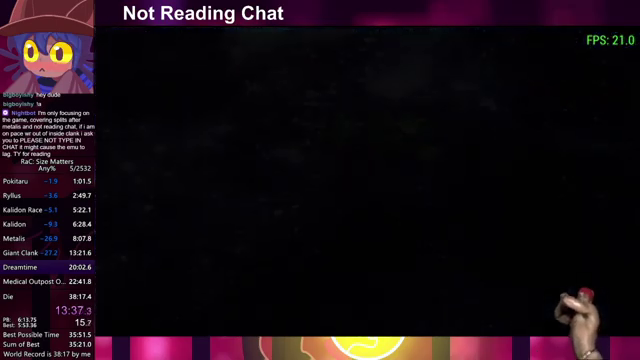
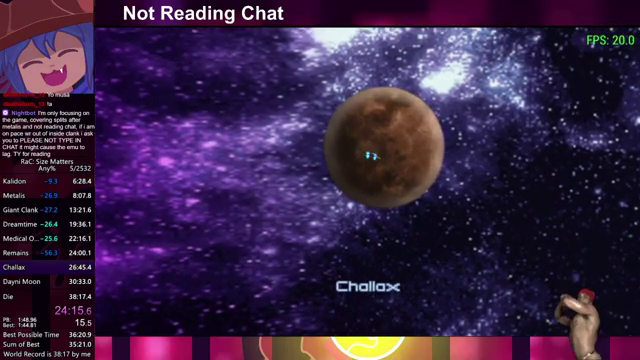
Started recording the black screens. The code currently doesn't not work as I need to fix up a bug.

diff --git a/sm-load-normalizer-by-image/image_scanning/image_scanner.py b/sm-load-normalizer-by-image/image_scanning/image_scanner.py
@@ -146,6 +146,12 @@ class ImageScanner:
         load_bound_max = load_bound[1] + 0.5
         return (load_time > load_bound_min) and (load_time < load_bound_max)
 
+    # Checks if the number of black screen frames is valid.
+    def is_black_screen_valid(self, black_time):
+        # Black screens before and after the loads are always longer than 10 frames
+        # (all measured ones have been 15 frames or more).
+        return black_time > (10.0 / 30.0)
+
     def record_load(self, load_time):
         # Check if it is the Pokitaru load (the first load), which is not counted
         # in the speed run.
@@ -160,8 +166,9 @@ class ImageScanner:
     # Functionality performed when going from a non-black frame to a black frame (entering).
     # This functionality is important for timing the loads.
     def enter_black_frame(self, debug_frame_before_black):
-        # DEBUGGING
         if self.enter_black_count == 0:
+            # Time the black screen to make sure it is valid.
+            self.record_position()
             self.enter_black_count = 1
             self.debug_frame_before_load = debug_frame_before_black
         elif self.enter_black_count == 1:
@@ -180,14 +187,24 @@ class ImageScanner:
             else:
                 # No load was added, so count this as the first enter_black_frame.
                 self.enter_black_count = 1
+                # Time the black screen to make sure it is valid.
+                self.record_position()
 
     # Functionality performed when going from a black frame to a non-black frame (exiting).
     # This functionality is important for timing the loads.
     def exit_black_frame(self):
         if self.enter_black_count == 1:
-            self.record_position()
+            black_time = self.get_time_diff()
+            if self.is_black_screen_valid(black_time):
+                # Start recording the position again, as we now need to measure a potential load.
+                self.record_position()
+            else:
+                # We know that there cannot be a load after this black screen, so restart the
+                # load measurement process.
+                self.enter_black_count = 0
 
     # The position is either a frame number for video scanning, or a time stamp for screen scanning.
+    # Also returns the position recorded.
     def record_position(self):
         raise NotImplementedError
 

diff --git a/sm-load-normalizer-by-image/image_scanning/video_scanner.py b/sm-load-normalizer-by-image/image_scanning/video_scanner.py
@@ -9,7 +9,7 @@ class VideoScanner(ImageScanner):
         self.fps = self.settings["vid"]["fps"]
         self.vid = cv2.VideoCapture(self.settings["vid"]["filename_vid"])
         self.frame_count = 1
-        self.load_start_frame = 0
+        self.start_frame = 0
 
     def get_image_res(self):
         # Detect video resolution from scanning the first frame.
@@ -27,15 +27,21 @@ class VideoScanner(ImageScanner):
         return frame[self.crop_y_start:self.crop_y_end, self.crop_x_start:self.crop_x_end]
 
     def get_time_diff(self):
-        return (self.frame_count - self.load_start_frame) / self.fps
+        return (self.frame_count - self.start_frame) / self.fps
 
     def enter_black_frame(self, debug_frame_before_black):
         # DEBUGGING
-        print("Entering black at frame", str(self.frame_count))
+        print("ENTERING black at frame", str(self.frame_count))
         super(VideoScanner, self).enter_black_frame(debug_frame_before_black)
 
+    def exit_black_frame(self,):
+        # DEBUGGING
+        print("EXITING black at frame", str(self.frame_count))
+        super(VideoScanner, self).exit_black_frame()
+
     def record_position(self):
-        self.load_start_frame = self.frame_count
+        self.start_frame = self.frame_count
+        return self.start_frame
 
     def increment_position(self):
         self.frame_count += 1

diff --git a/sm-load-normalizer-by-image/image_scanning/screen_scanner.py b/sm-load-normalizer-by-image/image_scanning/screen_scanner.py
@@ -12,7 +12,7 @@ class ScreenScanner(ImageScanner):
 
     def __init__(self, settings):
         super(ScreenScanner, self).__init__(settings)
-        self.load_start_time = 0
+        self.start_time = 0
         self.debug_frame_count = 0
         self.debug_start_time = time.perf_counter_ns()
 
@@ -71,10 +71,11 @@ class ScreenScanner(ImageScanner):
         return frame
 
     def get_time_diff(self):
-        return (time.perf_counter_ns() - self.load_start_time) * 1e-9
+        return (time.perf_counter_ns() - self.start_time) * 1e-9
 
     def record_position(self):
-        self.load_start_time = time.perf_counter_ns()
+        self.start_time = time.perf_counter_ns()
+        return self.start_time
 
     def increment_position(self):
         # No need to increment time, as time increments itself naturally according to the laws of physics.

diff --git a/sm-load-normalizer-by-image/main.py b/sm-load-normalizer-by-image/main.py
@@ -18,4 +18,4 @@ elif scan_type == settings["CONST_IMAGE_SCAN_TYPE_SCREEN"]:
 start = time.time()
 scanner.start_scan_loop()
 end = time.time()
-print("Total program runtime:", round(end - start, 2))
+print("Total program runtime is:", round(end - start, 2), "seconds.")

diff --git a/TODO.md b/TODO.md
@@ -1,4 +1,5 @@
 # Current LLR stuff
+- Use functions "record load position" and "record black screen position" so that you don't get errors.
 - Deal with load 9 (Challax). The issue is that there are full black screens either side of gameplay, which equate to within the load bounds.
     - Might have to time the start and end black screen.
     - LAST RESORT Could match the stars texture within a given threshold.

diff --git a/sm-load-normalizer-by-image/testing-notes.md b/sm-load-normalizer-by-image/testing-notes.md
@@ -64,3 +64,9 @@ Load number 9 added.
 
 9 should start at around 43780
 9 should end at around 44298
+
+DEBUG:
+ENTERING black at frame 42751
+EXITING black at frame 42755
+ENTERING black at frame 43089
+EXITING black at frame 43093
